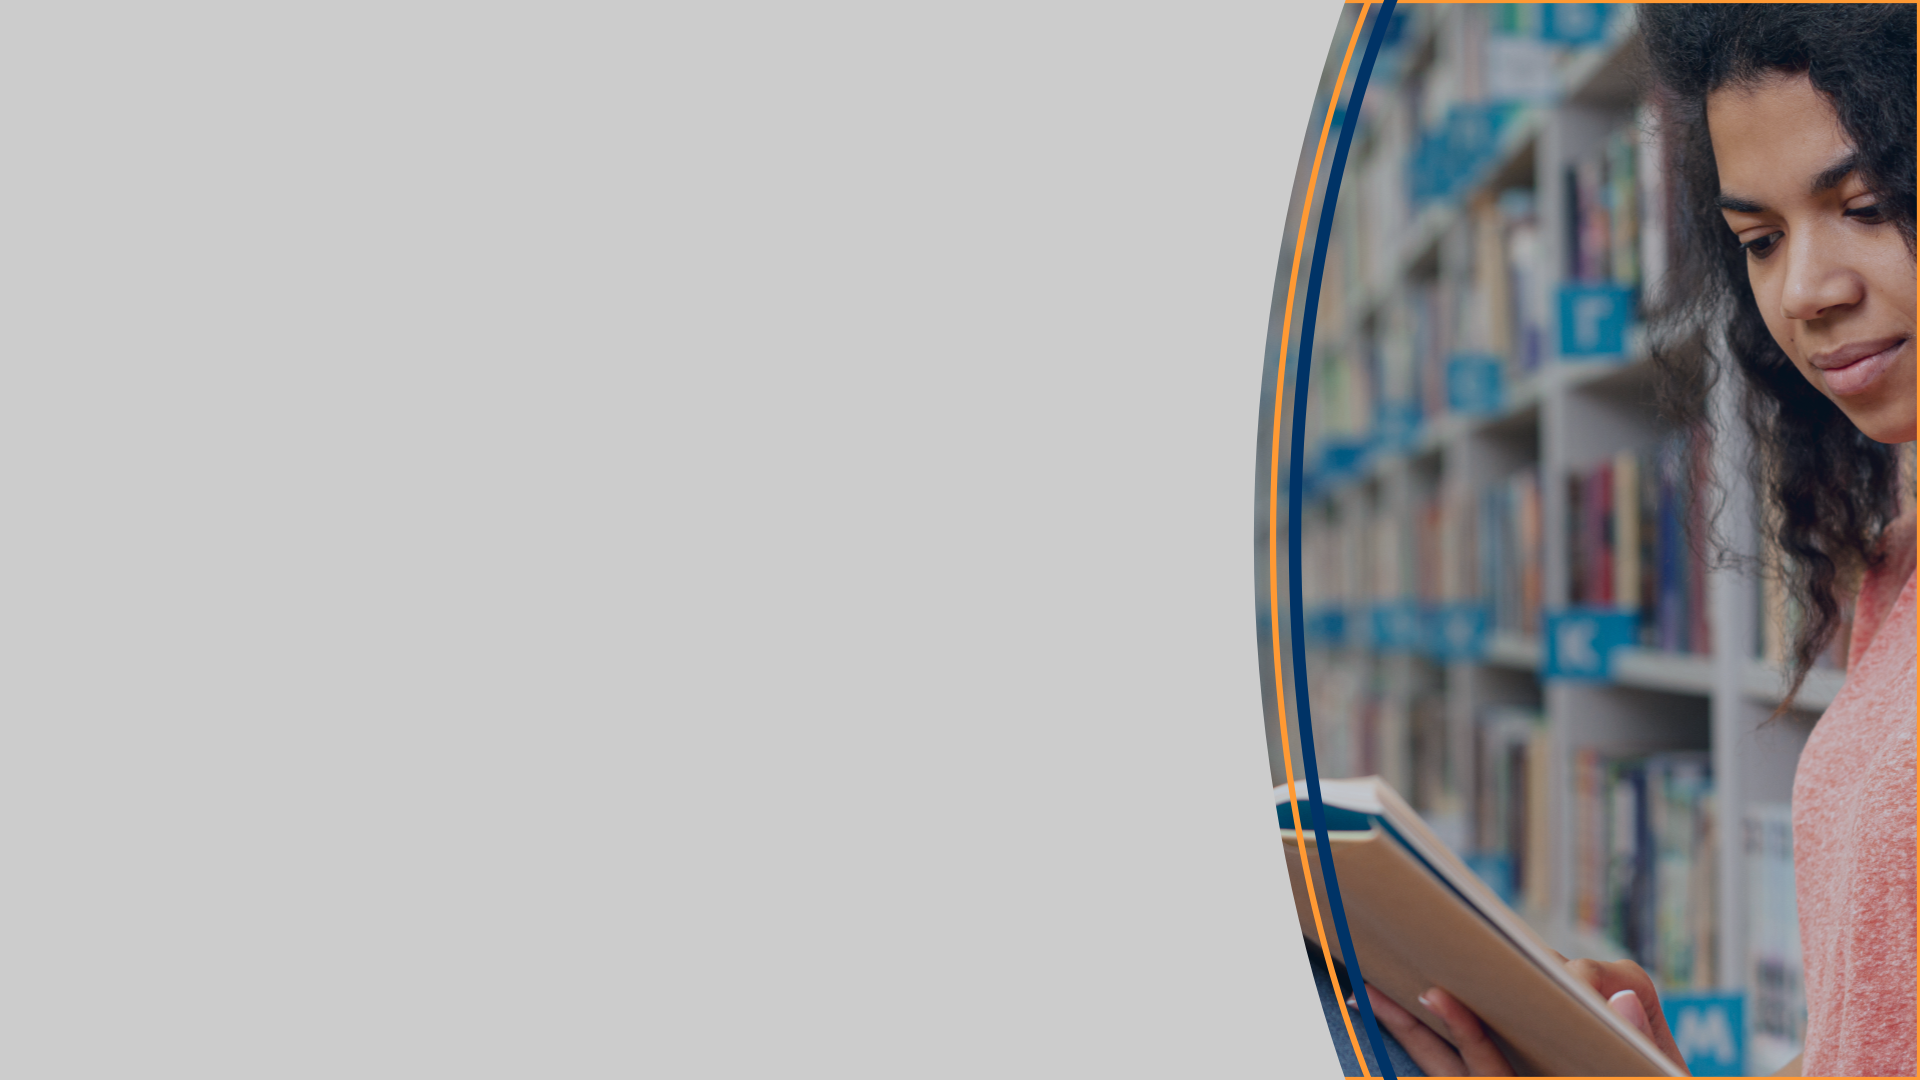
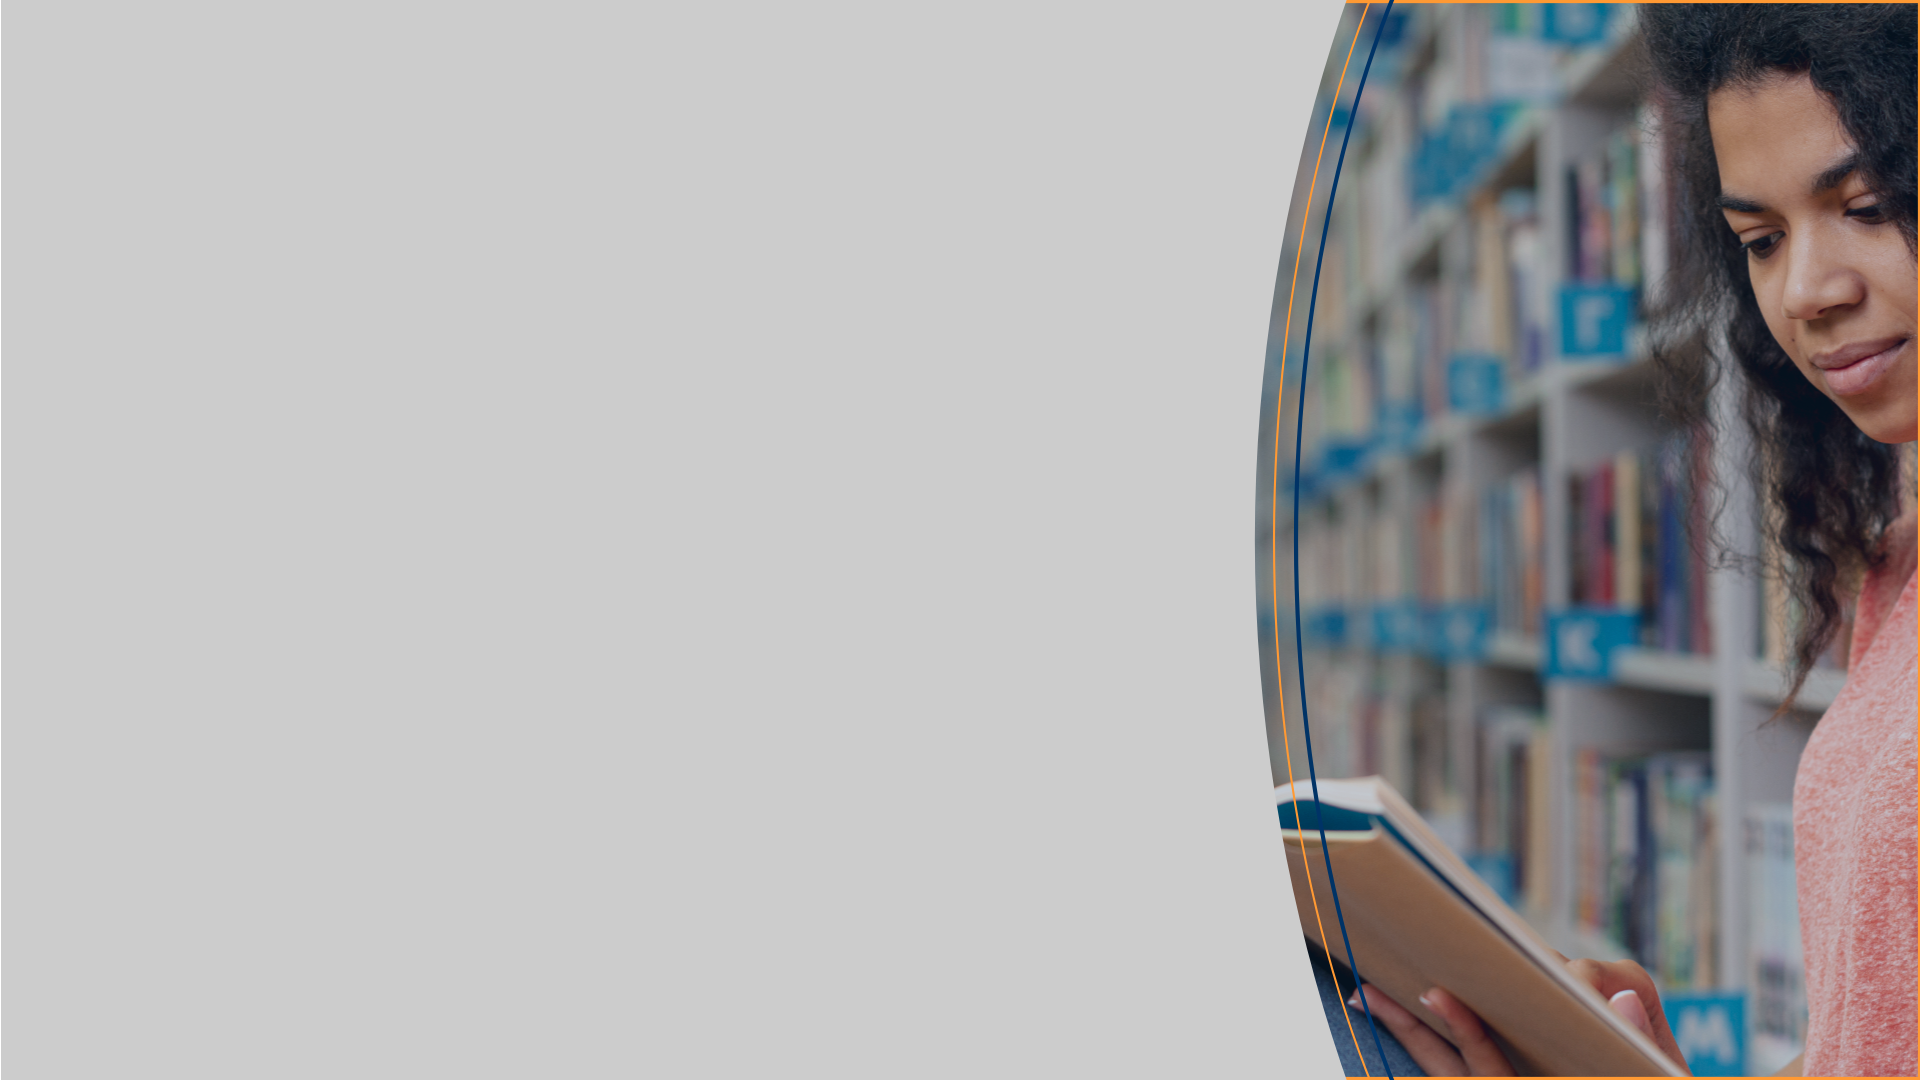
Add files via upload

Changed region(s): [[0.6562, 0.0, 0.75, 1.0]]

diff --git a/Conteudo/Modulo-01/index.html b/Conteudo/Modulo-01/index.html
@@ -154,8 +154,11 @@
 
 			<!-- <section class="module parallax parallax-objetivos-de-aprendizagem"></section> -->
 
-			<!-- OBJETIVOS -->
+			<!-- OBJETIVOS DE APRENDIZAGEM -->
 			<div data-cc="on" class="section bg-objetivos-de-aprendizagem valign-wrapper bg-right bg-cover bg-fixed" id="cs3">
+
+				<div class="overlay-white"></div>
+
 				<div class="row container">
 					<div class="col s12 m12 l12">
 
@@ -167,7 +170,9 @@
 
 						<div class="section-text txt-black" uk-scrollspy="cls: uk-animation-slide-bottom-medium; delay: 500;">
 
-							<ol class="number-list pink-list">
+							<p>Ao longo do módulo, você aprofundará seus conhecimentos sobre os conteúdos específicos abordados e, ao final, deverá alcançar os seguintes objetivos de aprendizagem:</p>
+
+							<!-- <ol class="number-list pink-list">
 
 								<li><strong>Alinhamento Normativo:</strong> Capacitar o aluno a alinhar as práticas da sua organização às diretrizes da <strong>Portaria SGD/MGI nº 9.511/2025</strong>, que institui o PPSI 2.0.</li>
 								<li><strong>Desenvolvimento de Políticas:</strong> Habilitar o participante e sua equipe a <strong>escrever, implementar e auditar políticas de segurança</strong> que sejam funcionais e sustentem a operação institucional, mesmo em situações de crise.</li>
@@ -175,7 +180,106 @@
 								<li><strong>Aplicação de Frameworks Internacionais:</strong> Prover uma compreensão sólida de como integrar padrões globais (como <strong>ISO 27001, NIST CSF 2.0 e CIS Controls</strong>) à realidade da administração pública brasileira.</li>
 								<li><strong>Cultura e Engajamento:</strong> Disseminar uma <strong>cultura de segurança da informação</strong> que faça sentido para todos os servidores, transformando diretrizes complexas em ferramentas práticas conectadas às prioridades estratégicas do órgão.</li>
 
-							</ol>
+							</ol> -->
+							
+							<div class="obejetivos-content">
+
+								<div class="obejetivo-content">
+									<div class="objetivo-title-1">
+										<div class="objetivo-title-2">
+											<div class="objetivo-title-3">
+												<div class="objetivo-title-number-content">
+													<p class="objetivo-title-number">1</p>
+												</div>
+											</div>
+										</div>
+									</div>
+									<div class="objetivo-text-1">
+										<div class="objetivo-text-2">
+											<div class="objetivo-text-3">
+												<p><strong>Alinhamento Normativo:</strong> Capacitar o aluno a alinhar as práticas da sua organização às diretrizes da <strong>Portaria SGD/MGI nº 9.511/2025</strong>, que institui o PPSI 2.0.</p>
+											</div>
+										</div>
+									</div>
+								</div>
+
+								<div class="obejetivo-content">
+									<div class="objetivo-title-1">
+										<div class="objetivo-title-2">
+											<div class="objetivo-title-3">
+												<div class="objetivo-title-number-content">
+													<p class="objetivo-title-number">2</p>
+												</div>
+											</div>
+										</div>
+									</div>
+									<div class="objetivo-text-1">
+										<div class="objetivo-text-2">
+											<div class="objetivo-text-3">
+												<p><strong>Desenvolvimento de Políticas:</strong> Habilitar o participante e sua equipe a <strong>escrever, implementar e auditar políticas de segurança</strong> que sejam funcionais e sustentem a operação institucional, mesmo em situações de crise.</p>
+											</div>
+										</div>
+									</div>
+								</div>
+
+								<div class="obejetivo-content">
+									<div class="objetivo-title-1">
+										<div class="objetivo-title-2">
+											<div class="objetivo-title-3">
+												<div class="objetivo-title-number-content">
+													<p class="objetivo-title-number">3</p>
+												</div>
+											</div>
+										</div>
+									</div>
+									<div class="objetivo-text-1">
+										<div class="objetivo-text-2">
+											<div class="objetivo-text-3">
+												<p><strong>Gestão de Maturidade e Riscos:</strong> Preparar o aluno para <strong>reduzir vulnerabilidades e elevar a maturidade e resiliência cibernética</strong> da instituição, utilizando metodologias como o CIS RAM para diagnósticos técnicos.</p>
+											</div>
+										</div>
+									</div>
+								</div>
+
+								<div class="obejetivo-content">
+									<div class="objetivo-title-1">
+										<div class="objetivo-title-2">
+											<div class="objetivo-title-3">
+												<div class="objetivo-title-number-content">
+													<p class="objetivo-title-number">4</p>
+												</div>
+											</div>
+										</div>
+									</div>
+									<div class="objetivo-text-1">
+										<div class="objetivo-text-2">
+											<div class="objetivo-text-3">
+												<p><strong>Aplicação de Frameworks Internacionais:</strong> Prover uma compreensão sólida de como integrar padrões globais (como <strong>ISO 27001, NIST CSF 2.0 e CIS Controls</strong>) à realidade da administração pública brasileira.</p>
+											</div>
+										</div>
+									</div>
+								</div>
+
+								<div class="obejetivo-content">
+									<div class="objetivo-title-1">
+										<div class="objetivo-title-2">
+											<div class="objetivo-title-3">
+												<div class="objetivo-title-number-content">
+													<p class="objetivo-title-number">5</p>
+												</div>
+											</div>
+										</div>
+									</div>
+									<div class="objetivo-text-1">
+										<div class="objetivo-text-2">
+											<div class="objetivo-text-3">
+												<p><strong>Cultura e Engajamento:</strong> Disseminar uma <strong>cultura de segurança da informação</strong> que faça sentido para todos os servidores, transformando diretrizes complexas em ferramentas práticas conectadas às prioridades estratégicas do órgão.</p>
+											</div>
+										</div>
+									</div>
+								</div>
+
+							</div>
 
 						</div>
 
@@ -186,7 +290,7 @@
 			<section class="module parallax parallax-conteudo"></section>
 
 			<!-- CONTEÚDO -->
-			<div data-cc="on" class="section gray-light" id="cs4">
+			<div data-cc="on" class="section bg-conteudo valign-wrapper bg-right bg-cover bg-fixed x-index" id="cs4">
 
 				<div class="row container">
 					<div class="col s12 m12 l12">

diff --git a/Base/v1/css/modulo.css b/Base/v1/css/modulo.css
@@ -1,8 +1,12 @@
+/* BACKGROUNDS */
 .bg-introducao{background-image: url("../img/bg-introducao.png");}
 @media only screen and (max-width: 890px) {.bg-introducao{background-position: center center;}}
 @media only screen and (max-width: 601px) {.bg-introducao{background-position: center left;}}
 
 .bg-objetivos-de-aprendizagem{background-image: url("../img/bg-objetivos-de-aprendizagem.png");}
+
+.bg-conteudo{background-image: url("../img/bg-conteudo.png");}
+
 
 
 /*CONTEÚDO*/
@@ -44,6 +48,8 @@
     }
 }
 
+
+
 /*CAPA*/
 .conteudo .capa {
     display: flex;
@@ -78,6 +84,114 @@
 }
 .conteudo .icon-capa{
 	margin-bottom: 24px;
+}
+
+
+
+/* OBJETIVOS DE APRENDIZAGEM */
+.bg-objetivos-de-aprendizagem{position: relative;}
+
+.overlay-white {
+    background-image: linear-gradient(to bottom, rgba(255, 255, 255, 0.7) 34%, rgba(255, 255, 255, 0.4) 60%, rgba(255, 255, 255, 0.1) 90%);
+    background-image: -webkit-linear-gradient(to bottom, rgba(255, 255, 255, 0.7) 34%, rgba(255, 255, 255, 0.4) 60%, rgba(255, 255, 255, 0.1) 90%);
+    background-image: -moz-linear-gradient(to bottom, rgba(255, 255, 255, 0.7) 34%, rgba(255, 255, 255, 0.4) 60%, rgba(255, 255, 255, 0.1) 90%);
+    position: absolute;
+    top: 0;
+    left: 0;
+    width: 100%;
+    height: 100%;
+    background-position: center center;
+    background-repeat: no-repeat;
+    -webkit-background-size: cover;
+    -moz-background-size: cover;
+    -o-background-size: cover;
+    background-size: cover;
+    z-index: 1;
+    background-attachment: fixed !important;
+}
+
+.bg-objetivos-de-aprendizagem .container{position: relative; z-index: 3;}
+
+.obejetivo-content{
+    margin-bottom: 1.7rem !important;
+}
+
+.obejetivos-content .obejetivo-content {
+    display: flex;
+    border-radius: 15px;
+    -webkit-box-shadow: 0px 0px 13px 5px rgba(0,0,0,0.44); 
+    box-shadow: 0px 0px 13px 5px rgba(0,0,0,0.44);
+    background: rgba(0,0,0,0.44);
+}
+
+.obejetivos-content .obejetivo-content .objetivo-title-1 {
+    display: flex;
+    border-radius: 15px 0 0 15px;
+    /* border-right: 2px solid #ff9933; */
+    /* background-color: #ff9933; */
+    background: #999999;
+    background: #003366;
+    /* -webkit-box-shadow: inset 0px 0px 18px 5px rgba(255,153,51,0.5); 
+box-shadow: inset 0px 0px 18px 5px rgba(255,153,51,0.5); */
+}
+.obejetivos-content .obejetivo-content .objetivo-title-2 {
+    display: flex;
+    border-radius: 11px 0 0 11px;
+    background: #666;
+    background: #003366;
+    background:  linear-gradient(to right, #ff9933 90%, #003366 100%);
+    background: #ff9933;
+    margin: 4px;
+}
+.obejetivos-content .obejetivo-content .objetivo-title-3 {
+    display: flex;
+    border-radius: 10px 0 0 10px;
+    background: #666;
+    background: #003366;
+    margin: 1.6px;
+}
+.obejetivos-content .obejetivo-content .objetivo-title-number-content {
+    width: 50px;
+    height: 50px;
+    border-radius: 50%;
+    display: flex;
+    margin: auto 5px;
+}
+.obejetivos-content .obejetivo-content .objetivo-title-number {
+    margin: auto;
+    font-weight: 800;
+    font-size: 50px;
+    /* color: #003366; */
+    color: #ffffff;
+    /* text-shadow: 2px 2px 6px #ff9933; */
+    line-height: 50px;
+    /* display: inline-block;
+    background: linear-gradient(to right, #003366 20%, #ff9933);
+    -webkit-background-clip: text;
+    -webkit-text-fill-color: transparent; */
+}
+
+.obejetivos-content .obejetivo-content .objetivo-text-1 {
+    display: flex;
+    border-radius: 0 15px 15px 0;
+    margin: auto 0 auto 5px;
+    background: #E5E5E5;
+}
+.obejetivos-content .obejetivo-content .objetivo-text-2 {
+    display: flex;
+    border-radius: 0 11px 11px 0;
+    margin: 4px;
+    background: #ff9933;
+}
+.obejetivos-content .obejetivo-content .objetivo-text-3 {
+    display: flex;
+    padding: 10px;
+    border-radius: 0 10px 10px 0;
+    margin: 1.6px;
+    background: #E5E5E5;
+}
+.obejetivos-content .obejetivo-content .objetivo-text-3 p:last-child {
+    margin-bottom: 0;
 }
 
 
